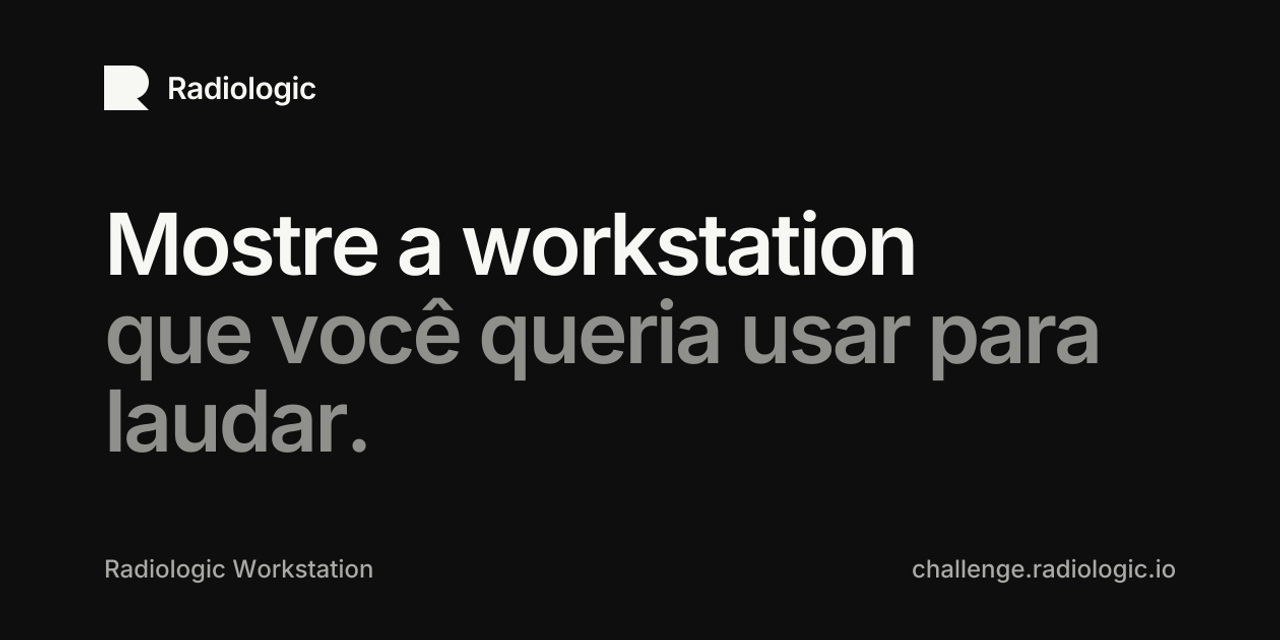
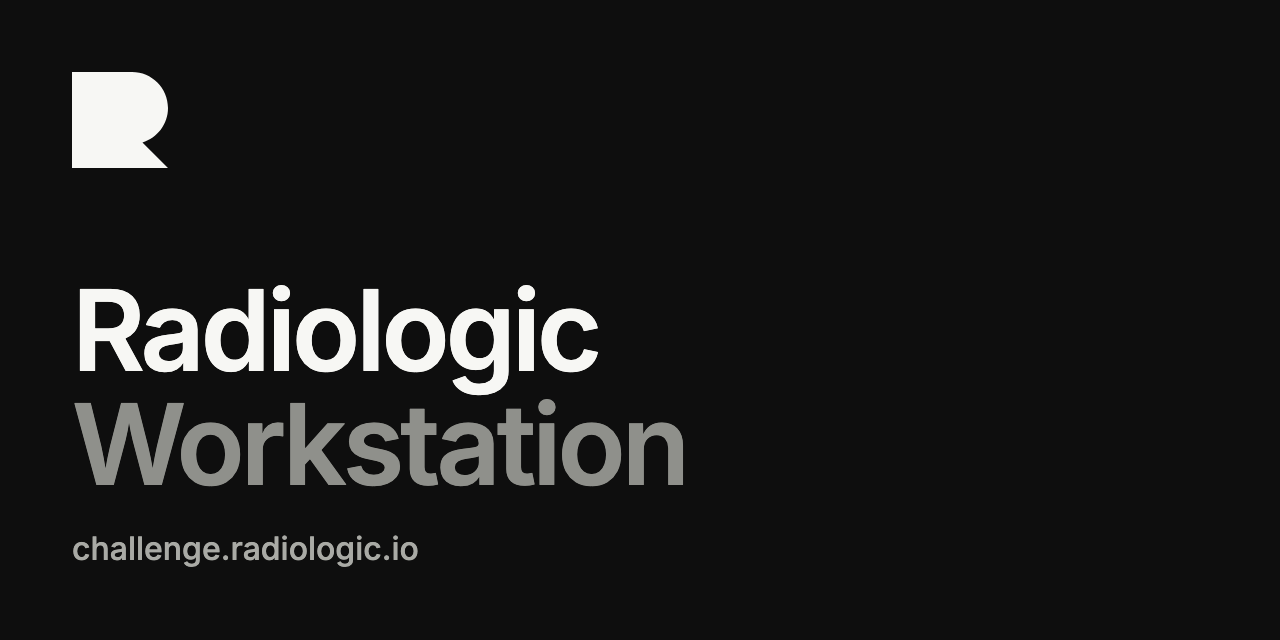
chore: novos nomes dos repositórios e imagem social (#21)
* chore: novos nomes dos repositórios

* feat: imagem social só com marca, nome e endereço

diff --git a/lib/og.tsx b/lib/og.tsx
@@ -1,6 +1,5 @@
 import { readFile } from "node:fs/promises";
 import { join } from "node:path";
-import type { Locale } from "@/lib/i18n";
 
 export const ogSize = { width: 1200, height: 630 } as const;
 const ogFontBudget = 500 * 1024;
@@ -31,12 +30,6 @@ export function BrandMark({ color = "#f7f7f4", size = 44 }: { color?: string; si
   );
 }
 
-const OG_COPY: Record<Locale, { headline: string; note: string }> = {
-  pt: { headline: "Mostre a workstation", note: "que você queria usar para laudar." },
-  en: { headline: "Show us the workstation", note: "you wish you had for reading." },
-  es: { headline: "Muestra la workstation", note: "que te gustaría usar para informar." },
-};
-
 function OgBrand() {
   return (
     <div style={{ display: "flex", alignItems: "center", gap: 18, fontSize: 30, fontWeight: 600, letterSpacing: -0.5 }}>
@@ -55,16 +48,17 @@ function OgFooter() {
   );
 }
 
-export function DefaultOgImage({ locale }: { locale: Locale }) {
-  const t = OG_COPY[locale];
+export function DefaultOgImage() {
   return (
-    <div style={{ width: "100%", height: "100%", display: "flex", flexDirection: "column", justifyContent: "space-between", background: "#0e0e0e", color: "#f7f7f4", padding: "64px 72px 56px", fontFamily: "Inter" }}>
-      <OgBrand />
-      <div style={{ display: "flex", flexDirection: "column", fontSize: 84, lineHeight: 1.04, fontWeight: 600, letterSpacing: -3 }}>
-        <span>{t.headline}</span>
-        <span style={{ color: "#8f908b" }}>{t.note}</span>
+    <div style={{ width: "100%", height: "100%", display: "flex", flexDirection: "column", justifyContent: "space-between", background: "#0e0e0e", color: "#f7f7f4", padding: "72px", fontFamily: "Inter" }}>
+      <BrandMark size={96} />
+      <div style={{ display: "flex", flexDirection: "column", gap: 28 }}>
+        <div style={{ display: "flex", flexDirection: "column", fontSize: 112, lineHeight: 1.02, fontWeight: 600, letterSpacing: -4 }}>
+          <span>Radiologic</span>
+          <span style={{ color: "#8f908b" }}>Workstation</span>
+        </div>
+        <span style={{ fontSize: 32, color: "#a9aaa5" }}>challenge.radiologic.io</span>
       </div>
-      <OgFooter />
     </div>
   );
 }

diff --git a/e2e/static.spec.ts b/e2e/static.spec.ts
@@ -36,7 +36,7 @@ test.describe("páginas estáticas", () => {
       await expect(nav.getByRole("link", { name: locale === "pt" ? "Kit de dados" : "Data kit" })).toHaveAttribute("href", `/${locale}/kit`);
       await expect(footer.getByRole("link", { name: privacyTitle })).toHaveAttribute("href", `/${locale}/privacy`);
       await expect(footer.getByRole("link", { name: locale === "pt" ? "Contato" : "Contact" })).toHaveAttribute("href", "mailto:caminha@radiologic.io");
-      await expect(footer.getByRole("link", { name: locale === "pt" ? "Código-fonte" : "Source code" })).toHaveAttribute("href", "https://github.com/eduardocaminha/radiologic-viewers");
+      await expect(footer.getByRole("link", { name: locale === "pt" ? "Código-fonte" : "Source code" })).toHaveAttribute("href", "https://github.com/eduardocaminha/radiologic-challenge");
     });
   }
 });

diff --git a/e2e/admin.spec.ts b/e2e/admin.spec.ts
@@ -77,7 +77,7 @@ test("restringe a fila a admins e permite moderar a ficha e cada imagem", async 
   await page.goto("/admin");
   await expect(page.getByRole("heading", { name: "Fila de moderação" })).toBeVisible();
   await expect(page.locator("h2").filter({ hasText: /^Viewer da fila$/ })).toBeVisible();
-  await expect(page.getByRole("link", { name: "https://github.com/eduardocaminha/dicom-viewer-challenge/issues/42" })).toBeVisible();
+  await expect(page.getByRole("link", { name: "https://github.com/eduardocaminha/radiologic-challenge-submissions/issues/42" })).toBeVisible();
   await expect(page.getByRole("img", { name: "Captura 1" }).first()).toBeVisible();
 
   const pending = page.getByRole("region", { name: "Pendências" }).getByRole("article").filter({ has: page.getByRole("heading", { name: "Viewer da fila" }) });

diff --git a/components/admin-queue.tsx b/components/admin-queue.tsx
@@ -10,7 +10,7 @@ import { Button } from "@/components/ui/button";
 import { Textarea } from "@/components/ui/textarea";
 
 const initialActionState: AdminActionState = { ok: true };
-const issueBaseUrl = "https://github.com/eduardocaminha/dicom-viewer-challenge/issues";
+const issueBaseUrl = "https://github.com/eduardocaminha/radiologic-challenge-submissions/issues";
 
 function date(value: string | null) {
   if (!value) return "Não informado";

diff --git a/app/[locale]/opengraph-image.tsx b/app/[locale]/opengraph-image.tsx
@@ -10,7 +10,7 @@ export default async function Image({ params }: { params: Promise<{ locale: stri
   const { locale: localeParam } = await params;
   if (!isLocale(localeParam)) notFound();
 
-  return new ImageResponse(<DefaultOgImage locale={localeParam} />, {
+  return new ImageResponse(<DefaultOgImage />, {
     ...size,
     fonts: await getOgFonts(),
   });

diff --git a/components/footer.tsx b/components/footer.tsx
@@ -7,7 +7,7 @@ import type { Dictionary } from "@/dictionaries";
 import type { Locale } from "@/lib/i18n";
 
 const CONTACT_EMAIL = "caminha@radiologic.io";
-const SOURCE_URL = "https://github.com/eduardocaminha/radiologic-viewers";
+const SOURCE_URL = "https://github.com/eduardocaminha/radiologic-challenge";
 
 interface FooterProps {
   locale: Locale;

diff --git a/docs/architecture.md b/docs/architecture.md
@@ -99,7 +99,7 @@ Edição em projeto aprovado segue direto ao ar, mas grava evento (`approved_url
 
 `NEXT_PUBLIC_SUPABASE_URL`, `NEXT_PUBLIC_SUPABASE_PUBLISHABLE_KEY`, `SUPABASE_SECRET_KEY`, `GITHUB_INTAKE_SECRET`, `CRON_SECRET`, `RESEND_API_KEY`, `ADMIN_EMAIL`.
 
-No repo público `eduardocaminha/dicom-viewer-challenge`, o mesmo valor de `GITHUB_INTAKE_SECRET` fica no segredo `RADIOLOGIC_INTAKE_SECRET`, porque o GitHub não aceita nome de segredo começando com `GITHUB_`. A URL do endpoint fica na variável `RADIOLOGIC_INTAKE_URL`. O conteúdo publicado lá é o de `docs/public-repo/`.
+No repo público `eduardocaminha/radiologic-challenge-submissions`, o mesmo valor de `GITHUB_INTAKE_SECRET` fica no segredo `RADIOLOGIC_INTAKE_SECRET`, porque o GitHub não aceita nome de segredo começando com `GITHUB_`. A URL do endpoint fica na variável `RADIOLOGIC_INTAKE_URL`. O conteúdo publicado lá é o de `docs/public-repo/`.
 
 ## Supabase local
 

diff --git a/AGENTS.md b/AGENTS.md
@@ -1,4 +1,4 @@
-# radiologic-viewers, instruções para agentes
+# radiologic-challenge, instruções para agentes
 
 ## Sobre
 
@@ -6,7 +6,7 @@ Site `challenge.radiologic.io`: showcase permanente e trilíngue (PT, EN e ES) d
 
 Repos relacionados:
 
-- `eduardocaminha/dicom-viewer-challenge` (público): Issue Form de submissão, regulamento, kit de dados e workflow de intake.
+- `eduardocaminha/radiologic-challenge-submissions` (público): Issue Form de submissão, regulamento, kit de dados e workflow de intake.
 - `eduardocaminha/radiologic-site` (privado): site de marca, origem da identidade visual (tokens, logo, padrões). A fonte é diferente da do site de marca.
 
 ## Stack

diff --git a/PRODUCT.md b/PRODUCT.md
@@ -29,7 +29,7 @@ O site dá certo quando chegam workstations boas e quem visita abre as demos e v
 
 ## Operating Context
 
-- Submissão pelo formulário do site ou por Issue Form no repo público `eduardocaminha/dicom-viewer-challenge`, com as duas entrando na mesma fila.
+- Submissão pelo formulário do site ou por Issue Form no repo público `eduardocaminha/radiologic-challenge-submissions`, com as duas entrando na mesma fila.
 - Pré-moderação na primeira publicação e em cada imagem, feita no `/admin`.
 - Kit de dados com estudos públicos do NCI Imaging Data Commons, sob licença aberta.
 - Site trilíngue, pt, en e es.

diff --git a/README.md b/README.md
@@ -1,6 +1,6 @@
 ![Radiologic Workstation](docs/public-repo/.github/social-preview.png)
 
-# radiologic-viewers
+# radiologic-challenge
 
 Site `challenge.radiologic.io`: showcase permanente e trilíngue de workstations de radiologia submetidas pelo público, com ranking por voto popular e destaques mensais.
 

diff --git a/lessons.md b/lessons.md
@@ -1,4 +1,4 @@
-# Lições do radiologic-viewers
+# Lições do radiologic-challenge
 
 ## 2026-10-30, crítica antes de declarar o visual pronto
 
